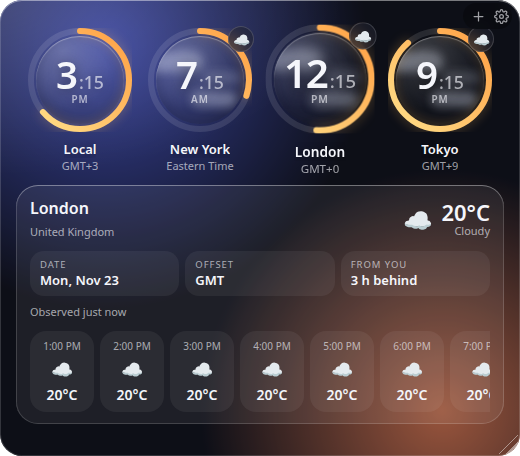
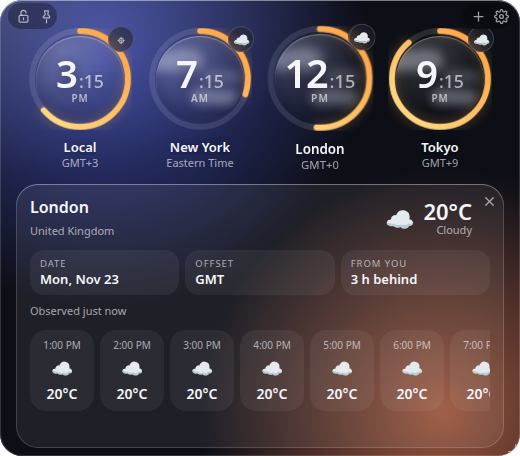
docs: refresh compact widget previews and verification results

diff --git a/docs/architecture.md b/docs/architecture.md
@@ -12,11 +12,13 @@ ORBIT keeps its original React ring interface inside a Tauri desktop shell. Pure
 | `src/features/cities/storage.ts` | Versioned persistence, migration, backups and scoped recovery |
 | `src/features/weather/` | Provider validation, cancellation, request scheduling, cache and stale state |
 | `src/hooks/` | Clock lifecycle and city persistence integration |
-| `src/platform/layout.ts` | Serialization and coalescing of native resize operations |
+| `src/platform/layout.ts` | Serialization and coalescing of native layout operations |
+| `src/platform/viewport.ts` | Visible city area, row layout and one-clock resize bounds |
 | `src/platform/storage.ts` | Backup preservation and recovery scoped to ORBIT |
 | `src/lib/win.ts` | Browser/native boundary and OS-specific window calls |
 | `src/components/` | Rings, details, city management and settings |
 | `src-tauri/` | Native window, desktop tray, position persistence and packaging |
+| `src-tauri/src/kwin.rs` | Process-scoped pin integration for KDE Wayland |
 
 ## Time and Local
 
@@ -34,7 +36,7 @@ Legacy Local coordinates were inferred from timezone rather than selected by the
 
 Before a migration or damaged-list replacement is written, the original raw value is retained in the corresponding `.backup` key, with numbered suffixes when an earlier different backup exists. The original version 2 key is also retained. If the backup cannot be written, replacement does not proceed. An unrecognized schema version is left untouched and the session uses temporary defaults.
 
-Settings retain `orbit.settings.v2` for compatibility, adding validated temperature units. Malformed settings JSON is backed up before defaults replace it. Custom backgrounds use `orbit.bg.custom`. The crash recovery action clears only keys beginning with `orbit.`.
+Settings retain `orbit.settings.v2` for compatibility, adding validated temperature units and independent viewport width/height preferences. Existing profiles acquire a 520×188 logical-pixel viewport while retaining their clock scale. Malformed settings JSON is backed up before defaults replace it. Custom backgrounds use `orbit.bg.custom`. The crash recovery action clears only keys beginning with `orbit.`.
 
 ## Weather and privacy
 
@@ -44,12 +46,32 @@ The provider is asked for epoch timestamps. Forecast hours are formatted in the 
 
 Requests have a timeout and are aborted when their effect is replaced. Cached forecasts are scoped to location, timezone and units, refreshed every fifteen minutes, and marked stale after thirty minutes or on refresh failure. Resume and network-restoration events retry eligible requests. The cache is in memory, so a fresh offline launch has clocks but no saved forecast.
 
-The panel shows observation age. Stale weather scenes and badges are suppressed while the last forecast remains readable in details. Forecast hours that have passed are filtered from the panel.
+The panel shows observation age. Stale weather scenes are suppressed; retained badges remain visible with a saved-data marker. Loading, unavailable and missing-location badges keep weather state visible without opening details. Turning weather off hides all weather presentation. Forecast hours that have passed are filtered from the panel.
 
 ## Platform boundary
 
 The native `runtime_platform` command supplies the OS. Windows receives acrylic and desktop stacking calls. Linux starts as a normal taskbar-visible application and does not receive Windows-only stacking requests. Native layout changes are serialized so an older request cannot finish after a newer size has already been applied.
 
+Clock details open only when the center button is activated, including Enter/Space. Hover, focus and scrolling do not open them. Pointer leave, window blur, Escape and the panel close button collapse details.
+
+The default visible area is one horizontal row. Dragging an edge or corner adjusts its width/height independently of clock scale; it cannot crop below a complete clock. Extra height creates more rows, and excess columns remain horizontally scrollable. Native pointer resizing uses the compositor's resize gesture so top/left anchors work on Wayland; the browser preview uses pointer deltas. Native resize observations are debounced, distinguish requested layouts from manual sizes, and do not send an older size back during a compositor drag. The profile stores dimensions in logical pixels, separate from monitor DPI and user zoom. Lock position disables the handles and fixes native size constraints.
+
 Windows tray reveal temporarily raises the widget and restores bottom stacking when it loses focus. This path requires native Windows verification. Native initialization and CSP also require packaged-app testing; browser checks cannot establish those behaviors.
 
 Plasma, Android home-screen widgets and WidgetKit are future native surfaces. They are not implemented by the browser preview or the mobile entry-point annotation.
+
+## Quick lock and pin
+
+The top-left lock shares the existing `lock` preference with Settings. It hides
+resize handles and fixes native size bounds while keeping the clock and city
+controls usable. `pinned` defaults to false for older profiles and is persisted
+independently. The native `set_pinned` command owns stacking changes, so Windows
+tray reveal and focus-loss recovery do not clear an active pin.
+
+On KDE Wayland, the pin uses the [KWin keepAbove property](https://develop.kde.org/docs/plasma/kwin/api/).
+A temporary script matches only ORBIT's process ID and window title, acknowledges
+the actual property value over a private session-bus connection, and is unloaded
+afterward. It does not install a KWin script or write window rules. Other desktop
+backends use Tauri's native window API; other Wayland compositors remain unverified.
+The Linux dependency uses the DBus version already present in Cargo.lock; only
+the root dependency edge was added.

diff --git a/docs/testing.md b/docs/testing.md
@@ -12,7 +12,7 @@ npm run screenshots
 
 The unit suite exercises damaged and newer storage schemas, migration backup failures, stable city identity, timezone and coordinate validation, scoped reset, accent-insensitive search, DST in both directions, fractional offsets, midnight, two-day date-line differences, weather validation, cancellation, stale detection and serialized window layouts.
 
-The browser suite intercepts external services and uses a fixed clock. It exercises actual React interactions, storage migration, runtime timezone changes, clock resume, keyboard access, city reordering, offline search, Local weather selection, unit changes and stale/error presentations. It does not test native windows, a real provider's availability or OS compositor behavior.
+The browser suite intercepts external services and uses a fixed clock. It exercises actual React interactions, storage migration, runtime timezone changes, clock resume, keyboard access, city reordering, offline search, Local weather selection, unit changes and stale/error presentations. It also checks center-only activation, collapse on leave, weather visibility while compact, viewport resizing to one city, scrolling to clipped clocks, size persistence, additional rows and the resize lock. It does not test native windows, a real provider's availability or OS compositor behavior.
 
 ## Screenshot provenance
 
@@ -59,21 +59,49 @@ other Fedora versions have not been established as supported.
 | Windows and Ubuntu frontend, unit and browser checks | Passed in [the first reliability run](https://github.com/Sami7ma/ORBIT/actions/runs/45395935330) |
 | Locked Windows and Ubuntu native builds; NSIS/RPM generation | Passed in [the installer workflow](https://github.com/Sami7ma/ORBIT/actions/runs/45423280063) |
 | Fedora release build and RPM | `npm run tauri -- build -- --locked` passed with Cargo/rustc 1.100.0, WebKitGTK 2.54.2 and GTK 3.24.52; no Rust compiler warnings after platform scoping |
-| Retained Rust lockfile | Byte-for-byte unchanged after the Fedora build |
+| Rust lockfile | Existing dependency versions retained; added the root Linux DBus dependency edge for KDE pin support. The locked build does not change the committed file |
 | RPM contents | Contains the executable, desktop entry and 32/128/512-pixel icons; summary, description and Utility category populated |
 | RPM dependencies | All three declared library providers are installed; `ldd` reports no unresolved libraries on this machine |
 | Desktop entry | `desktop-file-validate` passes |
 | RPM executable | Matches the release executable except for Tauri's documented-in-source RPM bundle-type marker |
-| Native startup | User confirmed the native window appears in Fedora KDE using the isolated test profile. Detailed interaction, rendering, scaling and tray recovery checks remain pending |
+| Native startup | User confirmed the initial native window appears in Fedora KDE using the isolated test profile. Detailed interaction, rendering, scaling and tray recovery checks remain pending |
 | System installation and upgrades | Pending; inspecting and launching an extracted RPM is not an installed-package test |
 | Windows desktop interaction | Pending on a real Windows desktop |
 
 The local development package is
 `src-tauri/target/release/bundle/rpm/ORBIT-0.1.0-1.x86_64.rpm`, with SHA-256
[2 lines of base64/hex data omitted]
 Build artifacts are ignored by Git. Packages are unsigned, and the distribution
 license remains a release decision.
 
 Native startup logged one GTK warning,
 `gtk_window_set_titlebar() called on a realized window`. It did not terminate
 the process; this observation does not establish correct rendering or tray behavior.
+
+## Compact interaction and viewport update
+
+The updated interface passes 33 unit checks and 12 Chromium interaction checks,
+plus type checking and a production frontend build. Reference images now include
+one-city and two-row viewports. The native pointer resize path delegates to the
+OS compositor; browser pointer tests do not establish Wayland edge anchoring,
+monitor DPI behavior or Windows desktop stacking. Those remain manual checks for
+the updated native package. The earlier user-confirmed startup check applies to
+the build before this interaction update.
+
+The updated Fedora RPM was rebuilt successfully with `--locked` and no Rust
+compiler warnings. Its desktop entry and expected RPM bundle marker validate.
+
+## Quick-control verification
+
+The user confirmed the compact, weather and viewport behavior in the native
+Fedora test instance before the quick controls were added. The browser suite
+also verifies the lock and pin buttons without opening Settings, disabled resize
+handles while locked, and both preferences after reload.
+
+The exact KDE pin helper used by the application was run against the ORBIT test
+window. KWin acknowledged `keepAbove=true`, then `keepAbove=false`, and the helper
+restored the original unpinned state. This verifies the native KDE setter and its
+acknowledgement path, rather than only the appearance of a pressed button. The
+updated application and RPM also build with the retained locked dependency
+versions. Windows focus-loss/tray behavior while pinned and native button
+interaction across a restart remain manual platform checks.

diff --git a/README.md b/README.md
@@ -82,12 +82,15 @@ Linux starts as a taskbar-visible window and does not receive Windows-only deskt
 
 ## Use ORBIT
 
-- Open a ring by pointing, clicking, tapping or focusing it with the keyboard. Escape closes its details.
-- Reveal the control pill by hover or keyboard focus. Use **Add a city** or **Settings**.
+- Click or tap the center of a clock for details, or focus it and press Enter/Space. Hovering and scrolling keep the widget compact. Escape, the close button, leaving the widget or switching away closes details.
+- The top-left **lock** toggles movement and resizing; the **pin** keeps ORBIT above other windows. Both preferences persist across launches. Active controls stay visible.
+- Reveal the other controls by hover or keyboard focus. Use **Add a city** or **Settings**.
 - Add cities with offline search, timezone names, UTC or worldwide search. Unaccented search such as `Montreal` matches `Montréal`.
 - Use the arrow buttons in the city picker to reorder selected clocks. At least one clock remains selected.
-- Scroll horizontally through more than four rings. Drag the widget background to move it, or the bottom-right grip to change scale. Lock position prevents accidental dragging.
+- Drag any edge or corner to resize the visible city area, down to one complete clock. Taller areas add rows; scroll horizontally to reach the remaining cities. Resize handles also respond to arrow keys.
+- Drag the widget background to move it. **Widget size** in Settings changes clock scale independently. **Lock position** disables both moving and resizing.
 - Choose glass or solid black, background scenes or a custom image, scale, 12/24-hour time, AM/PM and UTC/GMT labels.
+- Weather badges stay visible while enabled, including loading, unavailable and saved-data indicators. Fresh weather animates inside the rings; turn **Show weather** off to hide badges, scenes and forecasts.
 - Choose Celsius or Fahrenheit. Missing temperatures display an em dash, and retained forecasts show their age and refresh status.
 - **Local** follows the device timezone. Select its weather location explicitly in Settings or its details panel. Timezones alone do not identify a weather location.
 
@@ -99,11 +102,11 @@ Linux starts as a taskbar-visible window and does not receive Windows-only deskt
 
 Browser previews use sample weather and a fixed clock; native desktop verification is tracked separately.
 
-More browser references: [appearance settings](docs/screenshots/browser-settings.png), [weather settings](docs/screenshots/browser-weather-settings.png), [city management](docs/screenshots/browser-cities.png), and [solid appearance](docs/screenshots/browser-solid.png).
+More browser references: [appearance settings](docs/screenshots/browser-settings.png), [weather settings](docs/screenshots/browser-weather-settings.png), [city management](docs/screenshots/browser-cities.png), [solid appearance](docs/screenshots/browser-solid.png), [one-city viewport](docs/screenshots/browser-single-city.png), and [two-row viewport](docs/screenshots/browser-two-rows.png).
 
 ## Saved data and offline use
 
-The clock and bundled search work offline. Weather is optional and cached in memory; a new offline launch has no saved forecast. Network failures keep the last successful forecast for the running session, label it as saved, and suppress stale scenes/badges.
+The clock and bundled search work offline. Weather is optional and cached in memory; a new offline launch has no saved forecast. Network failures keep the last successful forecast for the running session, label it as saved, keep a marked weather badge, and suppress stale animated scenes.
 
 Existing city lists migrate to version 3. Valid cities are retained, damaged entries are repaired, and original data is backed up before replacement. Legacy inferred Local weather coordinates require a new explicit selection. Unknown future schemas remain untouched and use temporary session defaults.
 

diff --git a/docs/progress.md b/docs/progress.md
@@ -19,7 +19,10 @@ This file records delivered code separately from platform verification. It follo
 - [x] Serialize native layout calls and restrict Windows effects to Windows.
 - [x] Separate Windows/Linux packaging and add a production CSP.
 - [x] Add unit and browser regression suites and a CI workflow.
-- [x] Pass 28 unit regressions, 8 Chromium interaction checks, and application/tooling type checks with a production frontend build.
+- [x] Pass 33 unit regressions, 12 Chromium interaction checks, and application/tooling type checks with a production frontend build.
+- [x] Keep idle clocks compact, make center activation explicit and retain weather state badges.
+- [x] Add persistent top-left lock and pin controls; verify KDE keep-above enable/disable through the native helper.
+- [x] Resize the visible area from all edges/corners with one-clock bounds and independent clock scale.
 - [x] Capture browser-preview design references with documented mock-data provenance.
 - [x] Compile Windows and generate its NSIS installer in CI.
 - [x] Build the Fedora 44 x86_64 RPM and validate its desktop entry and declared library providers.
@@ -42,6 +45,7 @@ This file records delivered code separately from platform verification. It follo
 - [x] Install Rust and the WebKitGTK/GTK development prerequisites on Fedora 44.
 - [x] Generate an RPM with populated application metadata and no Rust compiler warnings.
 - [x] Confirm the native test window appears in the Fedora KDE session (user-reported smoke check).
+- [x] Confirm compact activation, persistent weather and one-city resize/scroll behavior (user-reported check).
 - [ ] Verify normal-window behavior, tray recovery and scaling on Wayland.
 - [ ] Test RPM installation, upgrades and removal on supported Fedora versions.
 - [ ] Capture actual Fedora screenshots.
